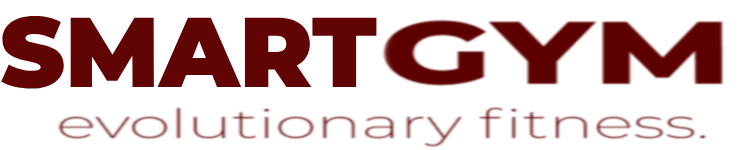
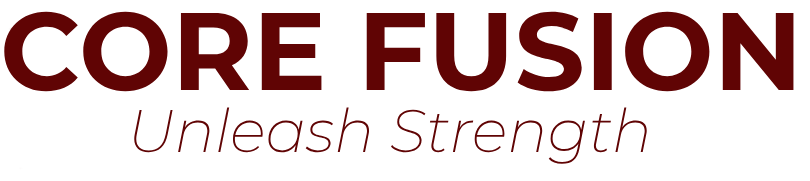
Layout updated

diff --git a/src/scenes/benefits/index.tsx b/src/scenes/benefits/index.tsx
@@ -9,25 +9,24 @@ import { Benefit } from "./Benefits"
 import { ActionButton } from "@/shared/ActionButton"
 import BenefitsPageGraphic from "@/assets/BenefitsPageGraphic.png"
 
-
 const benefits: Array<BenefitType> = [
     {
-        icon: <HomeModernIcon className="h-6 w-6" />,
-        title: "State of the Art Facilities",
+        icon: <HomeModernIcon className="h-6 w-9" />,
+        title: "Treinamento Holístico Integrado",
         description: 
-        "Lorem ipsum dolor sit amet, consectetur adipiscing elit, sed do eiusmod tempor incididunt ut labore et dolore magna aliqua. Ut enim ad minim venia"
+        "Abraçamos uma abordagem holística para o fitness, combinando exercícios físicos dinâmicos com técnicas de mindfulness."
     },
     {
-        icon: <UserGroupIcon className="h-6 w-6" />,
-        title: "100's of Diverse Classes",
+        icon: <UserGroupIcon className="h-6 w-9" />,
+        title: "Comunidade Motivadora e Apoio Individualizado",
         description: 
-        "Lorem ipsum dolor sit amet, consectetur adipiscing elit, sed do eiusmod tempor incididunt ut labore et dolore magna aliqua. Ut enim ad minim venia"
+        "Nossa academia é mais do que um lugar para malhar; é um espaço onde uma comunidade calorosa e inclusiva se une para alcançar metas comuns."
     },
     {
-        icon: <AcademicCapIcon className="h-6 w-6" />,
-        title: "Expert and Pro Trainers",
+        icon: <AcademicCapIcon className="h-6 w-9" />,
+        title: "Variedade de Programas Adaptáveis",
         description: 
-        "Lorem ipsum dolor sit amet, consectetur adipiscing elit, sed do eiusmod tempor incididunt ut labore et dolore magna aliqua. Ut enim ad minim venia"
+        "Entendemos que todos têm necessidades e objetivos diferentes. É por isso que oferecemos uma ampla gama de programas de treinamento que podem ser personalizados"
     }
 ]
 
@@ -61,14 +60,15 @@ export const Benefits = ({setSelectedPage}: Props) => {
                     hidden: {opacity: 0, x: -50},
                     visible: {opacity: 1, x: 0}
                 }}>
-                <HText>MORE THAN JUST A GYM</HText>
+                <HText>MAIS QUE UMA ACADEMIA</HText>
                 <p className="my-5 text-sm">
-                Lorem ipsum dolor sit amet, consectetur adipiscing elit, 
-                sed do eiusmod tempor incididunt ut labore et dolore magna aliqua. 
-                Ut enim ad minim venia, quis nostrud exercitation ullamco laboris nisi ut aliquip ex ea 
-                commodo consequat. Duis aute irure dolor in reprehenderit in voluptate velit esse cillum dolore 
-                eu fugiat nulla pariatur. Excepteur sint occaecat cupidatat non proident, sunt in culpa qui officia 
-                deserunt mollit anim id est laborum.
+                    Seja você um iniciante no mundo fitness ou um atleta experiente, a nossa comunidade acolhedora 
+                    está pronta para guiá-lo em direção a seus objetivos pessoais. Nós nos orgulhamos de oferecer 
+                    um ambiente inclusivo e motivador, onde cada passo que você dá nos leva mais perto de se tornar 
+                    a melhor versão de si mesmo.
+
+                    Junte-se a nós na CoreFusion Gym e comece a jornada para um corpo mais forte, uma mente mais 
+                    clara e uma vida mais plena. Sua transformação espera por você aqui.
                 </p>
             </motion.div>
 
@@ -104,30 +104,34 @@ export const Benefits = ({setSelectedPage}: Props) => {
                         <div className="before:absolute before:-top-20 before:-left-20 before:z-[1] before:content-abstractwaves">
                             <div>
                                 <HText>
-                                    MILLIONS OF HAPPY MEMBERS GETTING {" "}
-                                    <span className="text-primary-500">FIT</span>
+                                    MILHÕES DE MEMBROS JÁ FAZEM {" "}
+                                    <span className="text-primary-500">PARTE</span>
                                 </HText>
                             </div>
                         </div>
                     </div>
                     {/* DESCRIPTION */}
                     <div>
-                        <p className="my-5">Lorem ipsum dolor sit amet, consectetur adipiscing elit, 
-                        sed do eiusmod tempor incididunt ut labore et dolore magna aliqua. 
-                        Ut enim ad minim venia, quis nostrud exercitation ullamco laboris nisi ut aliquip ex ea 
-                        commodo consequat. Duis aute irure dolor in reprehenderit in voluptate velit esse cillum dolore 
-                        eu fugiat nulla pariatur. Excepteur sint occaecat cupidatat non proident, sunt in culpa qui officia 
-                        deserunt mollit anim id est laborum.</p>
-                        <p className="mb-5">Lorem ipsum dolor sit amet, consectetur adipiscing elit, 
-                        sed do eiusmod tempor incididunt ut labore et dolore magna aliqua. 
-                        Ut enim ad minim venia, quis nostrud exercitation ullamco laboris nisi ut aliquip ex ea 
-                        commodo consequat</p>
+                        <p className="my-5">Entendemos que cada indivíduo é único, com metas, necessidades e desafios distintos. 
+                            É por isso que oferecemos uma gama diversificada de programas adaptáveis, desde treinamento funcional e 
+                            cardio intenso até ioga restaurativa e meditação guiada. Nossa flexibilidade permite que você escolha a 
+                            abordagem que melhor se alinha com seus objetivos pessoais, permitindo uma jornada de progresso gradual 
+                            e sustentável.
+                        </p>
+                        <p className="mb-5">
+                            Na CoreFusion, estamos comprometidos em ir além do fitness convencional. 
+                            Estamos aqui para ajudá-lo a cultivar uma relação mais profunda com seu corpo e mente, 
+                            capacitando-o a enfrentar desafios, superar limites e abraçar seu potencial total. 
+                            Junte-se a nós enquanto exploramos a interseção entre força física, clareza mental e 
+                            realização interior. A transformação está ao seu alcance, e na CoreFusion Gym, estamos aqui 
+                            para guiá-lo nessa jornada significativa.
+                        </p>
                     </div>
                     {/* BUTTON */}
                     <div className="relative mt-16">
                         <div className="before:absolute before:-bottom-20 before:right-40 before:z-[-1] before:content-sparkles">
                             <ActionButton setSelectedPage={setSelectedPage}>
-                            Join Now
+                                Junte-se Agora
                             </ActionButton>
                         </div>
                     </div>

diff --git a/src/scenes/ourclasses/index.tsx b/src/scenes/ourclasses/index.tsx
@@ -11,19 +11,21 @@ import { Class } from "./Class";
 
 const classes: Array<ClassType> = [
   {
-    name: "Weight Training Classes",
+    name: "CoreStrength Circuit",
     description:
-      "Lorem ipsum dolor sit amet, consectetur adipiscing elit, sed do eiusmod tempor incididunt ut labore et dolore magna aliqua. Ut enim ad minim veniam, quis nostrud exercitation ullamco laboris nisi ut aliquip ex ea commodo consequat.",
+      "Uma aula desafiadora que se concentra no fortalecimento do núcleo e na melhoria da resistência muscular",
     image: image1,
   },
   {
-    name: "Yoga Classes",
+    name: "ZenYoga Fusion",
+    description:
+      "Esta classe combina as técnicas de alongamento e fortalecimento do yoga com a prática da atenção plena. Você vai ganhar flexibilidade, equilíbrio e foco mental enquanto se conecta com sua respiração e relaxa a mente.",
     image: image2,
   },
   {
-    name: "Ab Core Classes",
+    name: "CardioKick Power",
     description:
-      "Lorem ipsum dolor sit amet, consectetur adipiscing elit, sed do eiusmod tempor incididunt ut labore et dolore magna aliqua. Ut enim ad minim veniam, quis nostrud exercitation ullamco laboris nisi ut aliquip ex ea commodo consequat.",
+      "Uma sessão energética que combina movimentos de cardio com técnicas de artes marciais. Você vai melhorar seu condicionamento cardiovascular, enquanto a liberação de endorfinas alivia o estresse.",
     image: image3,
   },
   {
@@ -66,12 +68,12 @@ const OurClasses = ({ setSelectedPage }: Props) => {
           }}
         >
           <div className="md:w-3/5">
-            <HText>OUR CLASSES</HText>
+            <HText>NOSSAS CLASSES</HText>
             <p className="py-5">
-              Fringilla a sed at suspendisse ut enim volutpat. Rhoncus vel est
-              tellus quam porttitor. Mauris velit euismod elementum arcu neque
-              facilisi. Amet semper tortor facilisis metus nibh. Rhoncus sit
-              enim mattis odio in risus nunc.
+              oferecemos uma ampla variedade de classes projetadas para atender às necessidades individuais de nossos 
+              membros, abrangendo tanto a dimensão física quanto a mental do bem-estar. Nossa abordagem única 
+              combina treinamento físico inovador com práticas de mindfulness, proporcionando uma experiência 
+              transformadora e holística. Aqui está uma visão geral das classes que temos a oferecer:
             </p>
           </div>
         </motion.div>

diff --git a/src/scenes/home/index.tsx b/src/scenes/home/index.tsx
@@ -42,13 +42,19 @@ export const Home = ({ setSelectedPage}: Props) => {
                         <img alt="home-page-text" src={HomePageText} />
                     </div>
                 </div>
-                <p className='m-8 text-sm'>
-                Lorem ipsum dolor sit amet, consectetur adipiscing elit, 
-                sed do eiusmod tempor incididunt ut labore et dolore magna aliqua. 
-                Ut enim ad minim veniam, quis nostrud exercitation ullamco laboris nisi ut aliquip ex ea 
-                commodo consequat. Duis aute irure dolor in reprehenderit in voluptate velit esse cillum dolore 
-                eu fugiat nulla pariatur. Excepteur sint occaecat cupidatat non proident, sunt in culpa qui officia deserunt mollit anim id est laborum.
+                <p className='m-8 text-sm pb-0 mb-2'>
+                        Bem-vindo à CoreFusion Gym, onde a jornada para um corpo saudável 
+                    e uma mente forte começa. Somos mais do que uma academia, somos um espaço dedicado à 
+                    transformação holística. Aqui, fundimos os elementos essenciais do fitness para criar 
+                    uma experiência única e inspiradora.
                 </p>
+                <p className='m-8 text-sm my-0'>
+                        Na CoreFusion, acreditamos que a chave para um estilo de vida equilibrado reside na harmonia 
+                    entre o núcleo físico e a vitalidade mental. Nossas aulas dinâmicas e orientadas por instrutores 
+                    altamente qualificados abrangem desde treinamento funcional e cardio revigorante até práticas 
+                    de mindfulness que nutrem a sua paz interior.
+                </p>
+                
             </motion.div>
 
             {/* actions */}
@@ -64,14 +70,14 @@ export const Home = ({ setSelectedPage}: Props) => {
                 }}
                     >
                 <ActionButton setSelectedPage={setSelectedPage}>
-                    Join Now
+                    Junte-se Agora
                 </ActionButton>
                 <AnchorLink
                     className="text-sm font-bold text-primary-500 underline hover:text-secondary-500"
                     onClick={() => setSelectedPage(SelectedPage.ContactUs)}
                     href={`#${SelectedPage.ContactUs}`}
                 >
-                    <p>Learn More</p>
+                    <p>Veja Mais</p>
                 </AnchorLink>
             </motion.div>
         </div>

diff --git a/src/scenes/ContactUs/index.tsx b/src/scenes/ContactUs/index.tsx
@@ -43,12 +43,12 @@ const ContactUs = ({ setSelectedPage }: Props) => {
           }}
         >
           <HText>
-            <span className="text-primary-500">JOIN NOW</span> TO GET IN SHAPE
+            <span className="text-primary-500">ENTRE EM CONTATO</span> 
           </HText>
           <p className="my-5">
-            Congue adipiscing risus commodo placerat. Tellus et in feugiat nisl
-            sapien vel rhoncus. Placerat at in enim pellentesque. Nulla
-            adipiscing leo egestas nisi elit risus sit. Nunc cursus sagittis.
+            Ficamos encantados em ouvir de você na CoreFusion Gym! Estamos aqui para responder a todas as suas 
+            perguntas, fornecer mais informações sobre nossos serviços e ajudá-lo a dar o primeiro passo 
+            em direção a uma jornada de bem-estar transformadora.
           </p>
         </motion.div>
 
@@ -74,7 +74,7 @@ const ContactUs = ({ setSelectedPage }: Props) => {
               <input
                 className={inputStyles}
                 type="text"
-                placeholder="NAME"
+                placeholder="NOME"
                 {...register("name", {
                   required: true,
                   maxLength: 100,
@@ -107,7 +107,7 @@ const ContactUs = ({ setSelectedPage }: Props) => {
 
               <textarea
                 className={inputStyles}
-                placeholder="MESSAGE"
+                placeholder="MENSAGEM"
                 rows={4}
                 cols={50}
                 {...register("message", {
@@ -128,7 +128,7 @@ const ContactUs = ({ setSelectedPage }: Props) => {
                 type="submit"
                 className="mt-5 rounded-lg bg-secondary-500 px-20 py-3 transition duration-500 hover:text-white"
               >
-                SUBMIT
+                ENVIAR
               </button>
             </form>
           </motion.div>

diff --git a/src/scenes/Footer/index.tsx b/src/scenes/Footer/index.tsx
@@ -7,17 +7,16 @@ const Footer = () => {
         <div className="mt-16 basis-1/2 md:mt-0">
           <img alt="logo" src={Logo} />
           <p className="my-5">
-            Lorem vitae ut augue auctor faucibus eget eget ut libero. Elementum
-            purus et arcu massa dictum condimentum. Augue scelerisque iaculis
-            orci ut habitant laoreet. Iaculis tristique.
+            Você também pode nos ligar para obter informações diretas e esclarecer quaisquer dúvidas que possa ter. 
+            Nossa equipe de atendimento ao cliente está disponível durante o horário comercial para ajudá-lo(a).
           </p>
-          <p>© Smartgym All Rights Reserved.</p>
+          <p>© CoreFusion All Rights Reserved.</p>
         </div>
         <div className="mt-16 basis-1/4 md:mt-0">
           <h4 className="font-bold">Links</h4>
-          <p className="my-5">Massa orci senectus</p>
-          <p className="my-5">Et gravida id et etiam</p>
-          <p>Ullamcorper vivamus</p>
+          <p className="my-5">Para perguntas detalhadas ou informações adicionais sobre nossos programas e horários de aulas, 
+              sinta-se à vontade para enviar um e-mail para nosso endereço de contato
+          </p>
         </div>
         <div className="mt-16 basis-1/4 md:mt-0">
           <h4 className="font-bold">Contact Us</h4>

diff --git a/src/scenes/benefits/Benefits.tsx b/src/scenes/benefits/Benefits.tsx
@@ -18,7 +18,7 @@ export const Benefit = ({icon, title, description, setSelectedPage}: Props) => {
   return (
     <motion.div 
         variants={childVariant}
-        className="mt-5 rounded-md border-2 border-gray-100 px-5 py-16 text-center">
+        className="mt-5 rounded-md border-2 border-gray-100 px-5 py-16 text-center w-full">
         <div className="mb-4 flex justify-center">
             <div className="rounded-full border-2 border-gray-100 bg-primary-100 p-4">
                 {icon}
@@ -31,7 +31,7 @@ export const Benefit = ({icon, title, description, setSelectedPage}: Props) => {
             onClick={() => setSelectedPage(SelectedPage.ContactUs)}
             href={`#${SelectedPage.ContactUs}`}
         >
-            <p>Learn More</p>
+            <p>Veja Mais</p>
         </AnchorLink>
     </motion.div>
   )

diff --git a/src/scenes/navbar/index.tsx b/src/scenes/navbar/index.tsx
@@ -53,7 +53,7 @@ export const Navbar = ({isTopOfPage, selectedPage, setSelectedPage}: Props) => {
                             </div>
                             <div className={`${flexBetween} gap-8`}>
                                 <p>Sign In</p>
-                                <ActionButton setSelectedPage={setSelectedPage}>Become a member</ActionButton>
+                                <ActionButton setSelectedPage={setSelectedPage}>Torne-se um membro</ActionButton>
                             </div>
                         </div>) : (
                             <button
